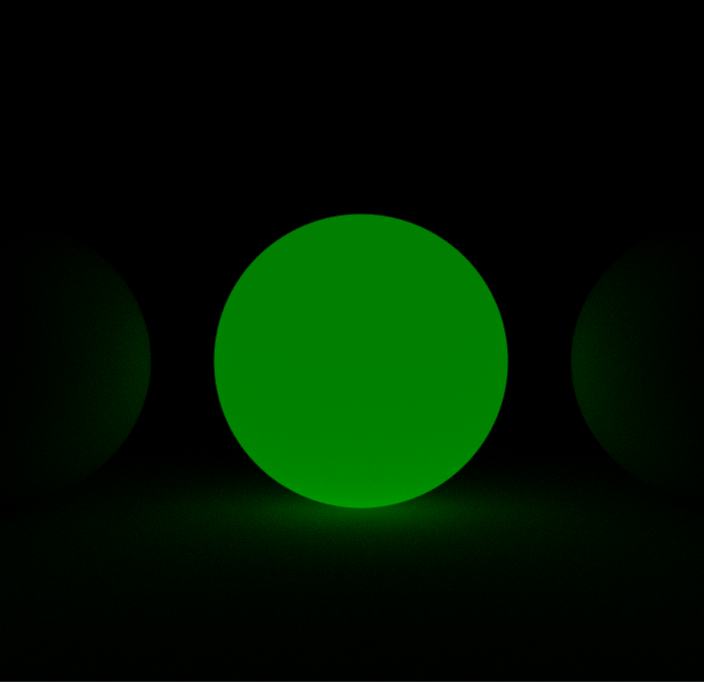
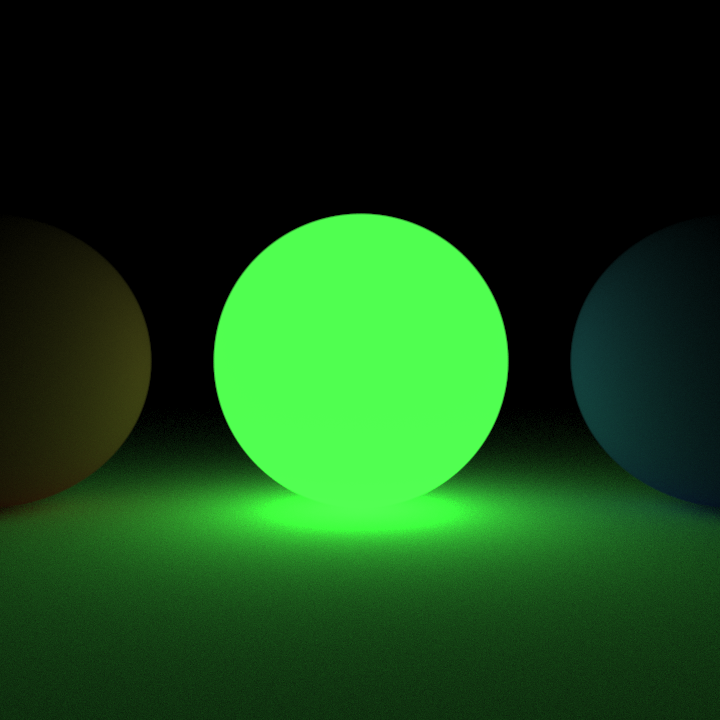
Printing to PPM

diff --git a/src/main.cpp b/src/main.cpp
@@ -8,13 +8,14 @@
 #include <cstdint>
 #include <cstdio>
 #include <cstdlib>
+#include <fstream>
 #include <iostream>
 #include <random>
+#include <string>
 #include <vector>
 
 /*
     TODO:
-    -diffuse lighting samples
     -Metal material (reflective)
     -Glass material (refractive)
     -Focus blur
@@ -38,22 +39,8 @@ struct Sphere {
     Material material;
 };
 
-// enum class LightType : uint8_t {
-//     LT_POINT = 0,
-//     LT_DIRECTION,
-//     LT_AMBIENT
-// };
-
-// struct Light {
-//     Vector pos;
-//     Vector direction;
-//     float intensity;
-//     LightType type;
-// };
-
 struct Scene {
     std::vector<Sphere> spheres;
-    // std::vector<Light> lights;
 };
 
 struct IntersectionData {
@@ -74,26 +61,6 @@ void clearScreen(uint32_t color, FS::RenderState &renderState) {
 Vector normalize(const Vector &vec) {
     return vec / length(vec);
 }
-// vv You're not supposed to use this for path tracing , its already done when tracing paths
-// float rayTracedLight(const Vector &point, const Vector &normal, const std::vector<Light> &lights) {
-//     float intensity = 0.f;
-//     for (const Light &light : lights) {
-//         Vector L = {};
-//         if (light.type == LightType::LT_AMBIENT) {
-//             intensity += light.intensity;
-//         } else {
-//             if (light.type == LightType::LT_DIRECTION) {
-//                 L = normalize(-light.direction);
-//             } else if (light.type == LightType::LT_POINT) {
-//                 L = normalize(light.pos - point);
-//             }
-//             float diffuse = std::max(0.f, dot(normal, L));
-//             intensity += (diffuse * light.intensity);
-//         }
-//     }
-
-//     return std::clamp(intensity, 0.f, 1.f);
-// }
 IntersectionData closestIntersection(const Vector &origin, const Vector &direction, float min, float max, const Scene &scene) {
     float minT = INT_MAX;
     Material hitMaterial = {};
@@ -142,6 +109,7 @@ float cubeRandom() {
 }
 Vector unitRandom() {
     Vector randvec;
+    // Very inefficient , fix later
     while (true) {
         randvec = { cubeRandom(), cubeRandom(), cubeRandom() };
         if (length(randvec) <= 1.f) {
@@ -151,9 +119,7 @@ Vector unitRandom() {
     return randvec;
 }
 Vector hemisphereRandom(const Vector &normal) {
-    Vector randvec = {};
-    // Very inefficient , fix later
-
+    Vector randvec = unitRandom();
     normalize(randvec);
     if (dot(randvec, normal) > 0.f) {
         return randvec;
@@ -172,7 +138,7 @@ Colourf traceRay(const Vector &origin, const Vector &direction, const int bounce
     }
     Colourf color = intersectData.material.color;
     if (bounceCount <= 0) {
-        return {0,0,0};
+        return { 0, 0, 0 };
     }
     Vector newDirection = normalize(intersectData.normal + normalize(unitRandom()));
     float illum = intersectData.material.illumination;
@@ -197,8 +163,8 @@ Colourf linearToGamma(const Colourf &color) {
     return gammacolor;
 }
 void pathTrace(const Scene &scene, FS::Window &window) {
-    constexpr int SAMPLE_COUNT = 50;
-    constexpr int BOUNCE = 100;
+    constexpr int SAMPLE_COUNT = 1024;
+    constexpr int BOUNCE = 20;
 
     FS::RenderState &renderState = *(window.getRenderState());
     const Vector origin = { 0, 0, 0 };
@@ -222,6 +188,29 @@ void pathTrace(const Scene &scene, FS::Window &window) {
         window.swapBuffers();
         window.processMessages();
     }
+    std::cout << "Rendered.\n";
+}
+void exportToPPM(uint32_t *buffer, uint32_t width, uint32_t height, const std::string &file) {
+    if (!buffer) {
+        std::cerr << "Invalid buffer :exportToPPM()\n";
+        return;
+    }
+    std::ofstream ofs(file);
+    if (!ofs.is_open()) {
+        std::cerr << "Failed to open file " << file << " :exportToPPM()\n";
+        return;
+    }
+    ofs << "P3\n";
+    ofs << width << ' ' << height << "\n";
+    ofs << "255\n";
+    for (uint32_t y = 0; y < height; y++) {
+        for (uint32_t x = 0; x < width; x++) {
+            uint32_t index = x + (y * width);
+            Colour color = FS::hexToRGB(buffer[index]);
+            ofs << int(color.R) << ' ' << int(color.G) << ' ' << int(color.B) << '\n';
+        }
+    }
+    ofs.close();
 }
 int main() {
     constexpr int width = 720;
@@ -270,7 +259,6 @@ int main() {
     });
 
     pathTrace(scene, window);
-
     while (window.isOpen()) {
         FS::Input &input = *(window.getInput());
         if (isDown(FS::Buttons::BUTTON_R)) {
@@ -279,6 +267,9 @@ int main() {
         }
         if (isDown(FS::Buttons::BUTTON_ESC)) {
             window.close();
+        }
+        if (isDown(FS::Buttons::BUTTON_P)) {
+            exportToPPM((uint32_t *)renderState.screenBuffer, renderState.width, renderState.height, "output.ppm");
         }
         window.swapBuffers();
         window.processMessages();

diff --git a/README.md b/README.md
@@ -4,7 +4,8 @@ software path tracer in C++
 
 ## Latest Renders:<br>
 ![Path Traced Balls](renders/diffuse.png)<br>
-![Glowing Ball](renders/glow.png)<ber>
+![Glowing Ball](renders/glow.png)<br>
+![Coloured Balls](renders/colored.png)
 
 
 # Building from source
@@ -42,4 +43,5 @@ build\PathTracer.exe
 
 # Input
 - `R` - Render again
+- `P` - Print to PPM
 - `ESC` - Exit